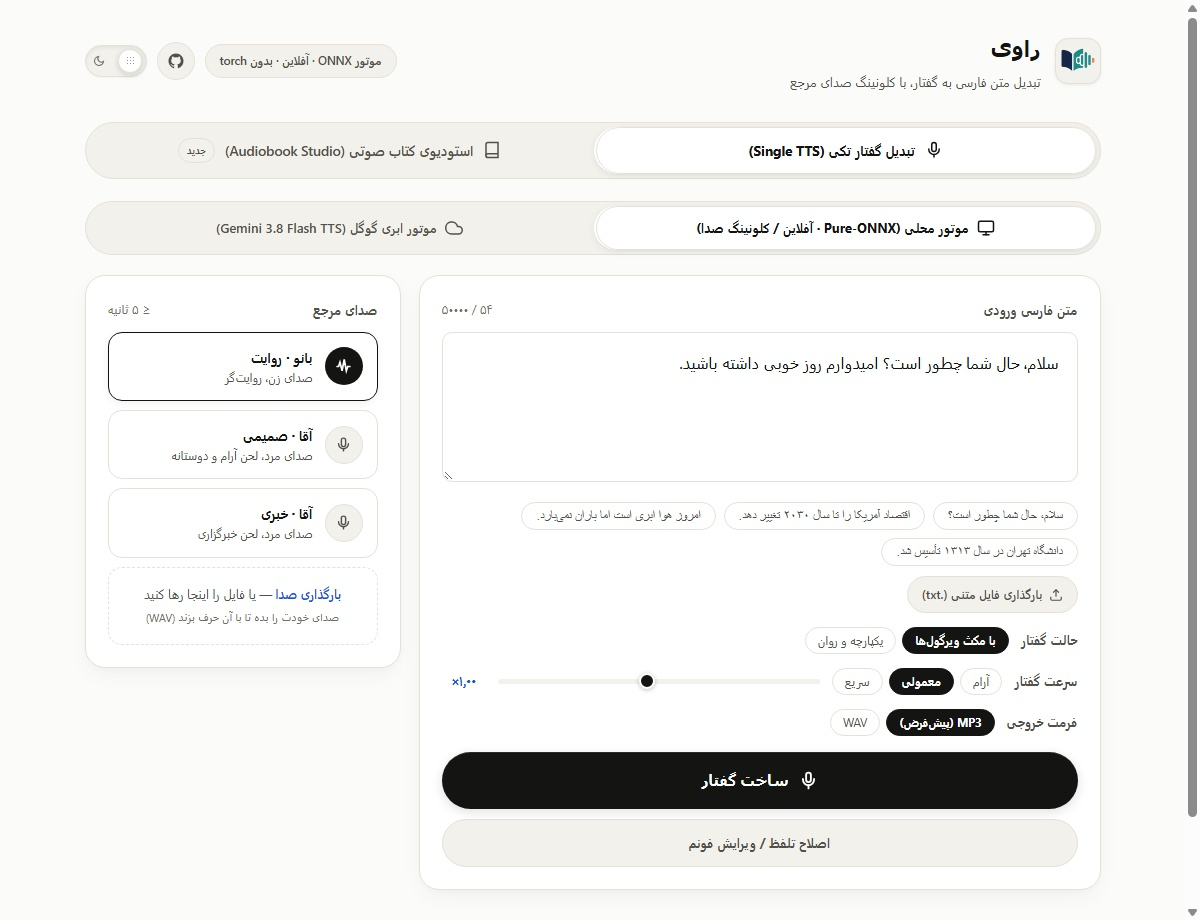
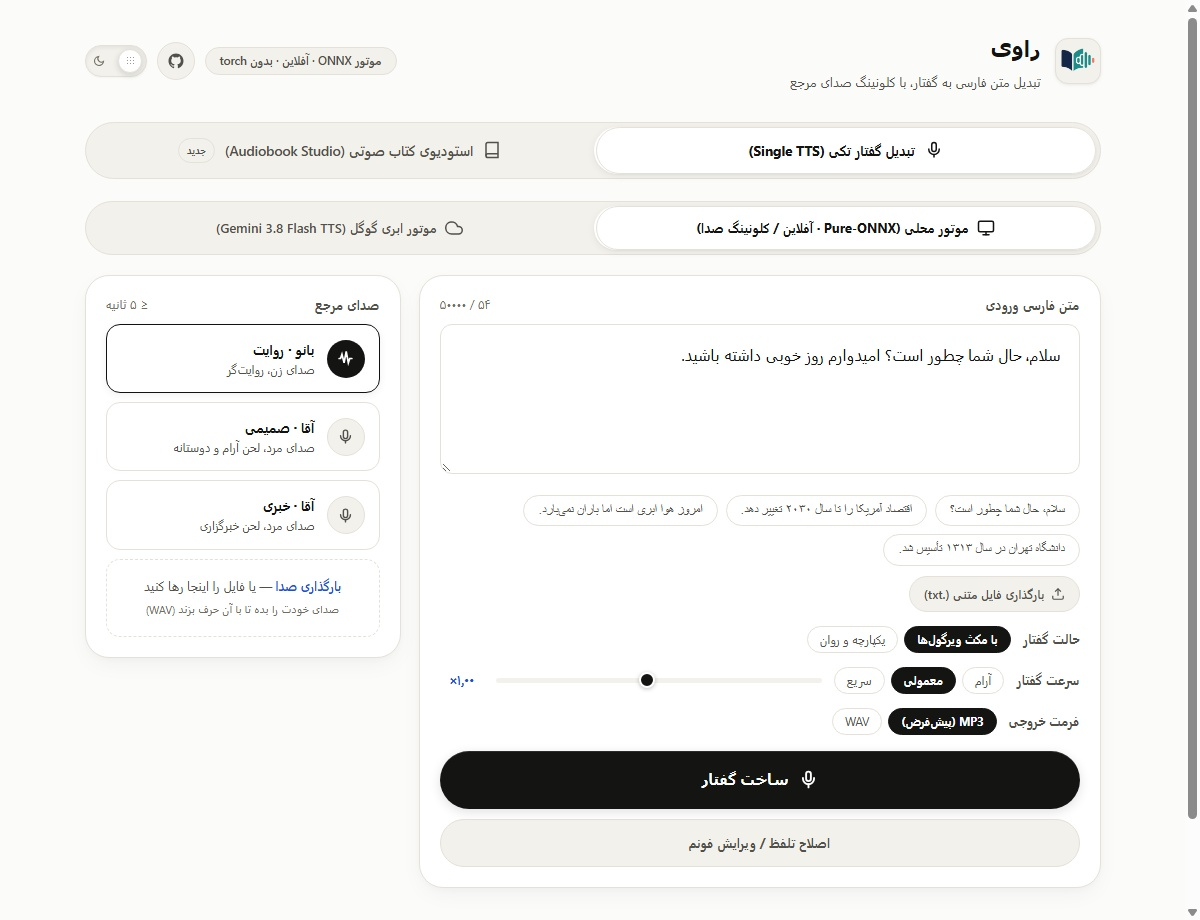
feat(ui): implement enterprise UI/UX design architecture and optical craft
- Enforce concentric radii rule (R_outer = R_inner + padding) across studio panels
- Implement dual-layer focus rings for WCAG AAA accessibility
- Add aria-live='polite' and role='status' to progress containers for screen readers
- Improve dark mode faint text contrast ratio to >= 5.2:1
- Eliminate transition: all across interactive elements in favor of GPU-accelerated properties
- Standardize all active clicks to transform: scale(0.96)
- Add zero-lag theme switch helper to eliminate color smearing
- Implement global Spacebar play/pause shortcut for audio playback
- Add content-visibility: auto to audiobook chapter cards for 60fps scrolling

diff --git a/web/index.html b/web/index.html
@@ -23,7 +23,7 @@
   --accent:#1d4ed8; --accent-2:#2563eb; --accent-soft:rgba(29,78,216,.14);
   --on-accent:#ffffff;
   --primary-btn-bg:#141413; --primary-btn-text:#ffffff; --primary-btn-hover:#262624;
-  --radius:20px; --radius-s:10px; --radius-pill:9999px;
+  --radius:24px; --radius-s:12px; --radius-pill:9999px;
   --shadow:0 8px 24px -4px rgba(18,18,17,.05),0 2px 8px -2px rgba(18,18,17,.03);
   --shadow-sm:0 1px 4px rgba(18,18,17,.05),0 1px 2px rgba(18,18,17,.03);
 }
@@ -32,7 +32,7 @@
 html[data-theme="dark"]{
   --bg:#111113; --surface:#19191d; --surface-2:#232329; --surface-hover:#2c2c34;
   --border:rgba(255,255,255,.09); --border-focus:#3b82f6;
-  --text:#f4f4f6; --muted:#a3a3ac; --faint:#90909c;
+  --text:#f4f4f6; --muted:#a3a3ac; --faint:#a3a3b2;
   --accent:#3b82f6; --accent-2:#60a5fa; --accent-soft:rgba(59,130,246,.25);
   --on-accent:#111113;
   --primary-btn-bg:#f4f4f6; --primary-btn-text:#111113; --primary-btn-hover:#ffffff;
@@ -67,9 +67,9 @@ h1{font-size:22px;font-weight:800;letter-spacing:normal}
 
 .theme-btn{width:38px;height:38px;border-radius:9999px;background:var(--surface-2);
   border:1px solid var(--border);display:grid;place-items:center;cursor:pointer;
-  color:var(--muted);transition:all .18s cubic-bezier(0.2,0,0,1);flex-shrink:0}
+  color:var(--muted);transition-property:transform,opacity,background-color,border-color,box-shadow,color;transition-duration:.18s;transition-timing-function:cubic-bezier(0.2,0,0,1);flex-shrink:0}
 .theme-btn:hover{color:var(--text);border-color:var(--text);transform:scale(1.04)}
-.theme-btn:active{transform:scale(0.95)}
+.theme-btn:active{transform:scale(0.96)}
 
 .theme-toggle-btn {
   width: 62px; height: 32px; border-radius: 9999px;
@@ -80,7 +80,7 @@ h1{font-size:22px;font-weight:800;letter-spacing:normal}
   transition: all 0.25s cubic-bezier(0.2, 0, 0, 1);
 }
 .theme-toggle-btn:hover { border-color: var(--text); }
-.theme-toggle-btn:active .tactile-thumb { transform: scale(0.92); }
+.theme-toggle-btn:active .tactile-thumb { transform: scale(0.96); }
 .theme-toggle-btn .track-icon { display: flex; align-items: center; justify-content: center; pointer-events: none; transition: color 0.2s; }
 .theme-toggle-btn .sun-icon { color: #f59e0b; }
 .theme-toggle-btn .moon-icon { color: var(--faint); }
@@ -107,14 +107,16 @@ html[data-theme="dark"] .theme-toggle-btn .tactile-thumb {
   box-shadow: 0 2px 6px rgba(0,0,0,.35), inset 0 1px 0 rgba(255,255,255,.12);
 }
 
+
+.chip,.vcard,.btn,.main-tab,.badge,.label{line-height:1.4}
 /* ---------- layout ---------- */
 .grid{display:grid;grid-template-columns:1fr 316px;gap:18px;align-items:start}
 @media(max-width:860px){.grid{grid-template-columns:1fr}}
 
 .panel{background:var(--surface);border:1px solid var(--border);
-  border-radius:var(--radius);padding:22px;box-shadow:var(--shadow)}
+  border-radius:var(--radius);padding:20px;box-shadow:var(--shadow)}
 
-:focus-visible{outline:2px solid var(--border-focus);outline-offset:2px}
+:focus-visible{outline:2px solid var(--accent);outline-offset:2px;box-shadow:0 0 0 4px var(--bg);}
 
 .label{font-size:13px;font-weight:700;color:var(--muted);margin-bottom:10px;display:flex;justify-content:space-between}
 .label .cnt{font-weight:400;color:var(--faint);font-size:12px}
@@ -128,21 +130,21 @@ textarea{
 textarea:focus{border-color:var(--border-focus);box-shadow:0 0 0 3px var(--accent-soft)}
 textarea::placeholder{color:var(--faint)}
 
-.drop:focus-visible, .multi-drop:focus-visible, .wave:focus-visible{outline:2px solid var(--border-focus);outline-offset:3px}
+.drop:focus-visible, .multi-drop:focus-visible, .wave:focus-visible{outline:2px solid var(--accent);outline-offset:2px;box-shadow:0 0 0 4px var(--bg);}
 
 .chips{display:flex;flex-wrap:wrap;gap:8px;margin-top:12px}
 .chip{font-size:12.5px;color:var(--muted);background:transparent;
   border:1px solid var(--border);border-radius:9999px;padding:6px 14px;cursor:pointer;
-  transition:all .18s}
+  transition-property:transform,opacity,background-color,border-color,box-shadow,color;transition-duration:.18s;transition-timing-function:cubic-bezier(0.2,0,0,1)}
 .chip:hover{color:var(--text);border-color:var(--muted)}
 .chip:active{transform:scale(0.96)}
 
 /* ---------- voices (ElevenLabs Audio Library Style) ---------- */
 .vcard{display:flex;align-items:center;gap:12px;width:100%;text-align:right;
   background:var(--surface);border:1px solid var(--border);border-radius:14px;
-  padding:12px 14px;margin-bottom:9px;cursor:pointer;transition:all .18s cubic-bezier(0.2,0,0,1);font:inherit;color:var(--text)}
+  padding:12px 14px;margin-bottom:9px;cursor:pointer;transition-property:transform,opacity,background-color,border-color,box-shadow,color;transition-duration:.18s;transition-timing-function:cubic-bezier(0.2,0,0,1);font:inherit;color:var(--text)}
 .vcard:hover{border-color:var(--text);background:var(--surface-hover)}
-.vcard:active{transform:scale(0.97)}
+.vcard:active{transform:scale(0.96)}
 .vcard.sel{border-color:var(--text);background:var(--surface);box-shadow:0 2px 8px rgba(0,0,0,.06)}
 .vcard .ic{width:38px;height:38px;border-radius:50%;flex-shrink:0;
   display:grid;place-items:center;background:var(--surface-2);border:1px solid var(--border);color:var(--muted);transition:all .18s}
@@ -245,7 +247,7 @@ input[type=range]::-moz-range-thumb{width:14px;height:14px;border-radius:50%;bac
   transition:all .18s cubic-bezier(0.2,0,0,1)}
 .go:hover:not(:disabled){background:var(--primary-btn-hover);transform:translateY(-1px);
   box-shadow:0 6px 18px rgba(0,0,0,.16),inset 0 1px 0 rgba(255,255,255,.15)}
-.go:active:not(:disabled){transform:scale(0.97)}
+.go:active:not(:disabled){transform:scale(0.96)}
 .go:disabled{opacity:.6;cursor:wait}
 .go svg{width:19px;height:19px;stroke:currentColor}
 
@@ -285,7 +287,7 @@ input[type=range]::-moz-range-thumb{width:14px;height:14px;border-radius:50%;bac
   background:var(--primary-btn-bg);display:grid;place-items:center;
   box-shadow:0 3px 12px rgba(0,0,0,.12);transition:all .18s cubic-bezier(0.2,0,0,1)}
 .play:hover{transform:scale(1.05);background:var(--primary-btn-hover)}
-.play:active{transform:scale(0.95)}
+.play:active{transform:scale(0.96)}
 .play svg{width:20px;height:20px;fill:var(--primary-btn-text)}
 .wave{flex:1;height:74px;position:relative;cursor:pointer}
 canvas{width:100%;height:100%;border-radius:10px}
@@ -293,7 +295,7 @@ canvas{width:100%;height:100%;border-radius:10px}
 .dl{background:var(--surface-2);border:1px solid var(--border);border-radius:9999px;
   width:44px;height:44px;display:grid;place-items:center;cursor:pointer;color:var(--muted);transition:all .18s}
 .dl:hover{color:var(--text);border-color:var(--text)}
-.dl:active{transform:scale(0.95)}
+.dl:active{transform:scale(0.96)}
 .dl svg{width:18px;height:18px}
 
 /* ---------- history ---------- */
@@ -349,9 +351,9 @@ html[data-theme="dark"] .toast-title{color:#f87171}
 .engine-btn{flex:1;display:flex;align-items:center;justify-content:center;gap:8px;
   background:transparent;border:1px solid transparent;border-radius:9999px;padding:9px 16px;
   color:var(--muted);font:inherit;font-size:13px;font-weight:600;cursor:pointer;
-  transition:all .18s cubic-bezier(0.2,0,0,1)}
+  transition-property:transform,opacity,background-color,border-color,box-shadow,color;transition-duration:.18s;transition-timing-function:cubic-bezier(0.2,0,0,1)}
 .engine-btn:hover{color:var(--text)}
-.engine-btn:active{transform:scale(0.97)}
+.engine-btn:active{transform:scale(0.96)}
 .engine-btn.sel{background:var(--surface);color:var(--text);font-weight:700;
   border-color:var(--border);box-shadow:0 2px 8px rgba(0,0,0,.06),0 1px 2px rgba(0,0,0,.04)}
 .engine-btn svg{width:18px;height:18px;stroke:currentColor;flex-shrink:0}
@@ -414,8 +416,9 @@ textarea.dragover{border-color:var(--text);background:var(--surface-2)}
 .pcard-snippet{color:var(--faint);font-size:11.5px;overflow:hidden;text-overflow:ellipsis;white-space:nowrap;max-width:240px}
 .pcard-cancel-btn{display:inline-flex;align-items:center;gap:4px;background:transparent;
   border:1px solid var(--border);border-radius:9999px;padding:3px 10px;color:var(--muted);
-  font:inherit;font-size:11.5px;cursor:pointer;transition:all .15s;flex-shrink:0}
+  font:inherit;font-size:11.5px;cursor:pointer;transition-property:transform,opacity,background-color,border-color,box-shadow,color;transition-duration:.18s;transition-timing-function:cubic-bezier(0.2,0,0,1);flex-shrink:0}
 .pcard-cancel-btn:hover{color:#ef4444;border-color:#ef4444;background:rgba(239,68,68,.06)}
+.pcard-cancel-btn:active{transform:scale(0.96)}
 
 /* ---------- Main Tab Switcher (Elevated Segmented Card) ---------- */
 .main-tabs{display:flex;background:var(--surface-2);border:1px solid var(--border);
@@ -423,9 +426,9 @@ textarea.dragover{border-color:var(--text);background:var(--surface-2)}
 .main-tab{flex:1;display:flex;align-items:center;justify-content:center;gap:10px;
   background:transparent;border:1px solid transparent;border-radius:9999px;padding:10px 18px;
   color:var(--muted);font:inherit;font-size:13.5px;font-weight:600;cursor:pointer;
-  transition:all .18s cubic-bezier(0.2,0,0,1);position:relative;white-space:nowrap}
+  transition-property:transform,opacity,background-color,border-color,box-shadow,color;transition-duration:.18s;transition-timing-function:cubic-bezier(0.2,0,0,1);position:relative;white-space:nowrap}
 .main-tab:hover{color:var(--text)}
-.main-tab:active{transform:scale(0.97)}
+.main-tab:active{transform:scale(0.96)}
 .main-tab.sel{background:var(--surface);color:var(--text);font-weight:700;
   border-color:var(--border);box-shadow:0 2px 8px rgba(0,0,0,.06),0 1px 2px rgba(0,0,0,.04)}
 .main-tab svg{width:18px;height:18px;stroke:currentColor;flex-shrink:0}
@@ -483,7 +486,7 @@ textarea.dragover{border-color:var(--text);background:var(--surface-2)}
 
 .chapter-cards-list{display:flex;flex-direction:column;gap:10px;max-height:480px;overflow-y:auto;padding-inline-end:4px}
 .chapter-card{background:var(--surface);border:1px solid var(--border);border-radius:14px;
-  padding:14px 18px;transition:all .2s ease}
+  padding:14px 18px;transition:all .2s ease;content-visibility:auto;contain-intrinsic-size:0 120px}
 .chapter-card:hover{border-color:var(--text);box-shadow:var(--shadow-sm)}
 .card-header-row{display:flex;align-items:center;gap:10px}
 .chapter-idx-badge{background:var(--surface-2);border:1px solid var(--border);border-radius:8px;
@@ -493,7 +496,7 @@ textarea.dragover{border-color:var(--text);background:var(--surface-2)}
 .chapter-title-input:focus{border-color:var(--border-focus);box-shadow:0 0 0 3px var(--accent-soft)}
 .chapter-meta-tag{font-size:11.5px;color:var(--muted);white-space:nowrap}
 .chapter-del-btn{background:transparent;border:none;color:var(--muted);cursor:pointer;padding:4px 8px;
-  font-size:14px;border-radius:6px;transition:all .15s}
+  font-size:14px;border-radius:6px;transition-property:transform,opacity,background-color,border-color,box-shadow,color;transition-duration:.18s;transition-timing-function:cubic-bezier(0.2,0,0,1)}
 .chapter-del-btn:hover{color:#ef4444;background:rgba(239,68,68,.08)}
 .chapter-snippet{margin-top:8px;font-size:12px;color:var(--faint);line-height:1.6;max-height:38px;
   overflow:hidden;text-overflow:ellipsis;white-space:nowrap}
@@ -538,10 +541,10 @@ textarea.dragover{border-color:var(--text);background:var(--surface-2)}
   transition:all .18s cubic-bezier(0.2,0,0,1);text-decoration:none}
 .download-hero-btn.zip{background:var(--primary-btn-bg);color:var(--primary-btn-text);border:none;box-shadow:0 3px 12px rgba(0,0,0,.12)}
 .download-hero-btn.zip:hover{background:var(--primary-btn-hover);transform:translateY(-2px);box-shadow:0 6px 18px rgba(0,0,0,.16)}
-.download-hero-btn.zip:active{transform:scale(0.97)}
+.download-hero-btn.zip:active{transform:scale(0.96)}
 .download-hero-btn.merged{background:var(--surface-2);color:var(--text);border:1px solid var(--border)}
 .download-hero-btn.merged:hover{border-color:var(--text);transform:translateY(-2px);box-shadow:var(--shadow-sm)}
-.download-hero-btn.merged:active{transform:scale(0.97)}
+.download-hero-btn.merged:active{transform:scale(0.96)}
 .download-hero-btn svg{width:18px;height:18px;stroke:currentColor;flex-shrink:0}
 </style>
 </head>
@@ -664,7 +667,7 @@ textarea.dragover{border-color:var(--text);background:var(--surface-2)}
         <div class="pcard-top">
           <div class="pcard-stage">
             <span class="pcard-pulse"></span>
-            <span id="pcardStageText">در حال آمادهسازی و تحلیل متن…</span>
+            <span id="pcardStageText" aria-live="polite" role="status">در حال آمادهسازی و تحلیل متن…</span>
           </div>
           <div class="pcard-time">
             <span id="pcardEta">باقیمانده: در حال تخمین…</span>
@@ -869,7 +872,7 @@ textarea.dragover{border-color:var(--text);background:var(--surface-2)}
       <div class="batch-monitor-top">
         <div class="batch-status-badge">
           <span class="batch-pulse-dot" id="batchPulseDot"></span>
-          <span id="batchMonitorStatusText">در حال پردازش فصول کتاب…</span>
+          <span id="batchMonitorStatusText" aria-live="polite" role="status">در حال پردازش فصول کتاب…</span>
         </div>
         <div style="display: flex; align-items: center; gap: 14px; font-size: 12px; color: var(--muted); flex-wrap: wrap;">
           <span id="batchTimeEta">باقیمانده: در حال تخمین…</span>
@@ -937,12 +940,22 @@ function updateThemeColors() {
 const themeBtn = $("themeToggle");
 if (themeBtn) {
   themeBtn.onclick = () => {
+    const style = document.createElement("style");
+    style.textContent = "* { transition: none !important; }";
+    document.head.appendChild(style);
+    
     const cur = document.documentElement.getAttribute("data-theme") || "light";
     const next = cur === "light" ? "dark" : "light";
     document.documentElement.setAttribute("data-theme", next);
     localStorage.setItem("ptts_theme", next);
     themeBtn.setAttribute("aria-checked", next === "dark");
     updateThemeColors();
+    
+    requestAnimationFrame(() => {
+      requestAnimationFrame(() => {
+        document.head.removeChild(style);
+      });
+    });
   };
 }
 
@@ -2131,6 +2144,19 @@ $("btnCancelBatch").onclick = async () => {
     toast("خطا در ارسال درخواست لغو");
   }
 };
+
+  // Global Spacebar Play/Pause Shortcut
+  document.addEventListener('keydown', (e) => {
+    if (e.key === ' ' || e.key.toLowerCase() === 'k') {
+      const active = document.activeElement;
+      if (active && (active.tagName === 'INPUT' || active.tagName === 'TEXTAREA' || active.isContentEditable)) {
+        return;
+      }
+      e.preventDefault();
+      const playBtn = document.getElementById('play');
+      if (playBtn) playBtn.click();
+    }
+  });
 </script>
 </body>
 </html>
